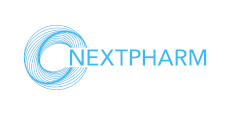
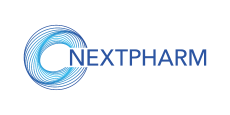
update partners

Changed region(s): [[0.0913, 0.2087, 0.913, 0.7826]]

diff --git a/index-eng.html b/index-eng.html
@@ -485,7 +485,7 @@
 					<a href="https://www.novartis.com" target="_blank"><img src="./static/images/novartis.jpg"></a>
 					<a href="https://ravita.ua/uk" target="_blank"><img src="./static/images/ravita.jpg?1"></a>
 					<a href="http://www.nivamedservice.com" target="_blank"><img src="./static/images/nivamedservice.jpg"></a>
-					<a href="https://nextpharm.at" target="_blank"><img src="./static/images/nextpharm.png"></a>
+					<a href="https://nextpharm.at" target="_blank"><img src="./static/images/nextpharm.png?1"></a>
 				</div>
 				<div class="partners-column second">
 					<!-- <a href="http://www.ipmedical.com.ua/index.html?locale=ua" target="_blank"><img src="./static/ip-medical.jpg"></a> -->
@@ -497,6 +497,7 @@
 					<a href="http://tmx-group.com.ua/en/" target="_blank"><img src="./static/images/technomedex.jpg"></a>
 					<a href="http://www.sentisspharma.com/" target="_blank"><img src="./static/images/sentiss.jpg"></a>
 					<a href="https://ffd.com.ua/en/" target="_blank"><img src="./static/images/force-pharma.jpg"></a>
+					<a href="https://clausmarsh.com" target="_blank"><img src="./static/images/clausmarsh.png"></a>
 				</div>
 				<div class="partners-column">
 					<a href="http://www.rekah-ukraine.com.ua/" target="_blank"><img src="./static/rekah.png" width="170" height="auto"></a>

diff --git a/index.html b/index.html
@@ -488,7 +488,7 @@
 					<a href="https://www.novartis.com" target="_blank"><img src="./static/images/novartis.jpg"></a>
 					<a href="https://ravita.ua/uk" target="_blank"><img src="./static/images/ravita.jpg?1"></a>
 					<a href="http://www.nivamedservice.com" target="_blank"><img src="./static/images/nivamedservice.jpg"></a>
-					<a href="https://nextpharm.at" target="_blank"><img src="./static/images/nextpharm.png"></a>
+					<a href="https://nextpharm.at" target="_blank"><img src="./static/images/nextpharm.png?1"></a>
 				</div>
 				<div class="partners-column second">
 					<!-- <a href="http://www.ipmedical.com.ua/index.html?locale=ua" target="_blank"><img src="./static/ip-medical.jpg"></a> -->
@@ -500,6 +500,7 @@
 					<a href="http://tmx-group.com.ua/ua/" target="_blank"><img src="./static/images/technomedex.jpg"></a>
 					<a href="http://www.sentisspharma.com/" target="_blank"><img src="./static/images/sentiss.jpg"></a>
 					<a href="https://ffd.com.ua/uk/" target="_blank"><img src="./static/images/force-pharma.jpg"></a>
+					<a href="https://clausmarsh.com" target="_blank"><img src="./static/images/clausmarsh.png"></a>
 				</div>
 				<div class="partners-column">
 					<a href="http://www.rekah-ukraine.com.ua/" target="_blank"><img src="./static/rekah.png" width="170" height="auto"></a>
